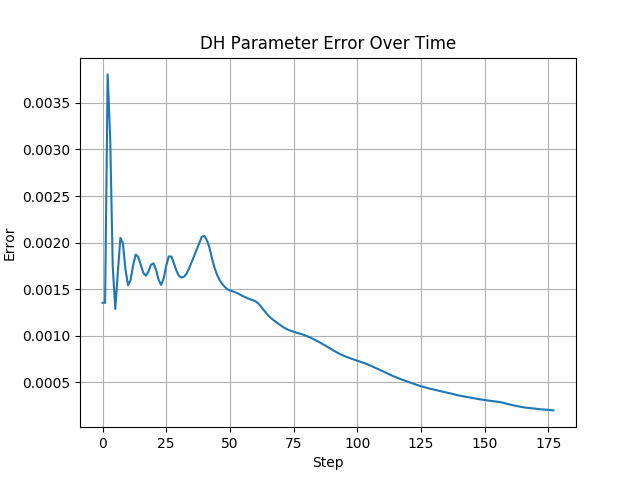
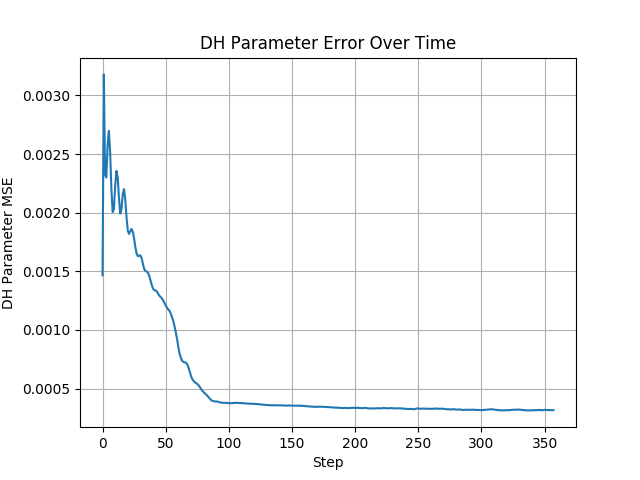
lots of documentation and validation work

diff --git a/st_r17_calibration/scripts/gazebo_target_initializer.py b/st_r17_calibration/scripts/gazebo_target_initializer.py
@@ -57,6 +57,8 @@ class GazeboTargetInitializer(object):
         self._num_markers = rospy.get_param('~num_markers', default=1)
         self._tag_size = rospy.get_param('~tag_size', default=0.1)
 
+        self._min_r = rospy.get_param('~min_r', default=2.5) # not roll, radius
+        self._max_r = rospy.get_param('~max_r', default=4.0)
         self._min_Y = rospy.get_param('~min_Y', default=-np.pi)
         self._max_Y = rospy.get_param('~max_Y', default=np.pi)
         self._min_P = rospy.get_param('~min_P', default=np.deg2rad(10))
@@ -64,6 +66,8 @@ class GazeboTargetInitializer(object):
 
         xyz, rpy = get_xyz_rpy(self._num_markers,
                 min_z = self._tag_size,
+                min_r = self._min_r,
+                max_r = self._max_r,
                 min_phi = self._min_P,
                 max_phi = self._max_P,
                 min_theta = self._min_Y,

diff --git a/st_r17_calibration/scripts/evaluate_dh.py b/st_r17_calibration/scripts/evaluate_dh.py
@@ -51,6 +51,10 @@ def characterize_v2(xyz, rpy, err):
     xyz = np.float32(xyz)
     rpy = np.float32(rpy)
     fig = plt.figure()
+    
+    ax0 = fig.add_subplot(111)
+    ax0.set_title('Error Visualization By Position')
+    hide_axis(ax0)
 
     cm0 = matplotlib.cm.get_cmap('cool')
     cm = cm0(np.arange(cm0.N))

diff --git a/st_r17_calibration/README.md b/st_r17_calibration/README.md
@@ -11,11 +11,10 @@ Currently, the seeds are configured for the ST R17 Arm, but the implementation i
 ### Gazebo simulation
 
 [Youtube Link](https://youtu.be/T6hWMyOZmXE)
+
 ![gz\_dh\_err](figs/gz_dh_err.png)
 
 #### DH Parameters
-
-Unfortunately, calibrated joint angle biases were not recorded.
 
 Nominal:
 
@@ -28,29 +27,44 @@ Nominal:
 &pi;/2   | 0        | 0.042    | 1.176    |
 0        | -0.012   | 0.159    | &pi;     |
 
+Initial:
+
+&alpha;  | a        |d         | &Delta;q |
+:-------:|:--------:|:--------:|:--------:|
+3.06     | 5.13e-2  | -3.51e-1 | -1.76e-2 |
+1.68     | -1.34e-2 | 7.94e-3  | -1.61    |
+-2.72e-2 | 3.74e-1  | 3.72e-2  | 2.53e-2  |
+4.51e-2  | 3.83e-1  | 2.02e-2  | 1.57     |
+1.53     | 1.81e-3  | 9.19e-2  | 1.15     |
+-3.55e-2 | -2.13e-2 | 1.46e-1  | 3.17     |
+
 Calibrated:
 
 &alpha;  | a        |d         | &Delta;q |
 :-------:|:--------:|:--------:|:--------:|
-3.1407   |4.62e-4   | -0.373   | N/A      |
-1.5714   |-7.18e-3  | 0.029    | N/A      |
--1.04e-3 | 0.385    | -0.028   | N/A      |
--1.94e-3 | 0.380    | 0.027    | N/A      |
-1.5703   | 2.12e-3  | 0.060    | N/A      |
-1.40e-3  | -6.15e-3 | 0.1274   | N/A      |
+3.14     | 2.85e-3  | -3.66e-1 | 2.53e-3  |
+1.57     | -2.64e-3 | -1.96e-2 | -1.60    |
+-4.00e-3 | 3.79e-1  | 2.39e-2  | 1.79e-2  |
+-2.27e-3 | 3.81e-1  | 2.21e-2  | 1.58     |
+1.57     | 1.77e-2  | 7.99e-02 | 1.16     |
+-5.80e-4 | 1.88e-3  | 1.11e-1  | 3.17     |
 
 #### Kinematic Error
 
+![pos\_err.png](figs/pos_err.png)
+
 ![kin\_err.png](figs/kin_err.png)
+
 Mean Absolute Error over 1000 Samples:
 
 x (m)  | y (m) | z(m)  |R (deg)|P (deg)|Y (deg)|
 :-----:|:-----:|:-----:|:-----:|:-----:|:-----:|
-8.32e-3|8.44e-3|1.87e-2|1.03e-1|7.65e-2|4.72e-1|
+1.29e-2|1.21e-2|1.73e-2|3.10e-1|2.58e-1|4.54e-1|
+
 
 ## Run DH Calibration (Virtual)
 
-![calib.gif](figs/calib.gif)
+![calib\_virtual.gif](figs/calib_virtual.gif)
 
 [Youtube Link](https://www.youtube.com/watch?v=DozXbHvRHp8)
 
@@ -60,7 +74,7 @@ x (m)  | y (m) | z(m)  |R (deg)|P (deg)|Y (deg)|
     
     ```bash
     roscore
-    roslaunch st_r17_calibration urdf.launch use_kinect:=false
+    roslaunch st_r17_description urdf.launch use_kinect:=false
     rosrun st_r17_calibration target_publisher.py _num_markers:=4 _zero:=false _rate:=100
     rviz -d $(rospack find st_r17_description)/rviz/dh.rviz
     ```
@@ -71,6 +85,8 @@ x (m)  | y (m) | z(m)  |R (deg)|P (deg)|Y (deg)|
     ```
 
 ## Run DH Calibration (Gazebo + Vision):
+
+![calib.gif](figs/calib.gif)
 
 1. Setup the World:
 
